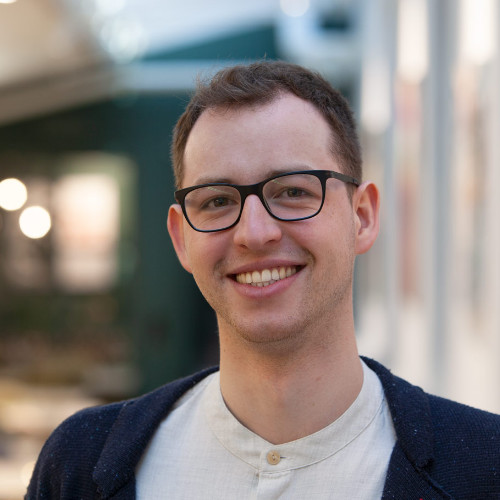
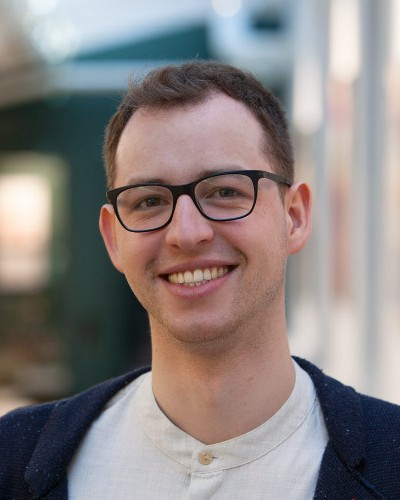
web-s5: team portraits matched in face size and eye line, shown at 4:5

diff --git a/src/styles/global.css b/src/styles/global.css
@@ -78,7 +78,7 @@ section.tint { background: var(--panel); }
 .two .mood { margin-bottom: 1.25rem; }
 
 .people { display: grid; grid-template-columns: 1fr 1fr; gap: 3rem; margin-top: var(--space-l); }
-.person .pic { width: 100%; aspect-ratio: 4 / 5; object-fit: cover; filter: grayscale(1) contrast(1.04); background: var(--paper-deep); mix-blend-mode: multiply; }
+.person .pic { width: 100%; height: auto; aspect-ratio: 4 / 5; object-fit: cover; filter: grayscale(1) contrast(1.04); background: var(--paper-deep); mix-blend-mode: multiply; }
 .person h3 { margin: 1.25rem 0 0; font-family: var(--serif); font-size: var(--step-2); font-weight: 400; }
 .person .role { margin: 0 0 1rem; font-size: var(--step--1); color: var(--muted); font-weight: 600; }
 .person .bio p { margin: 0 0 1.25rem; }
